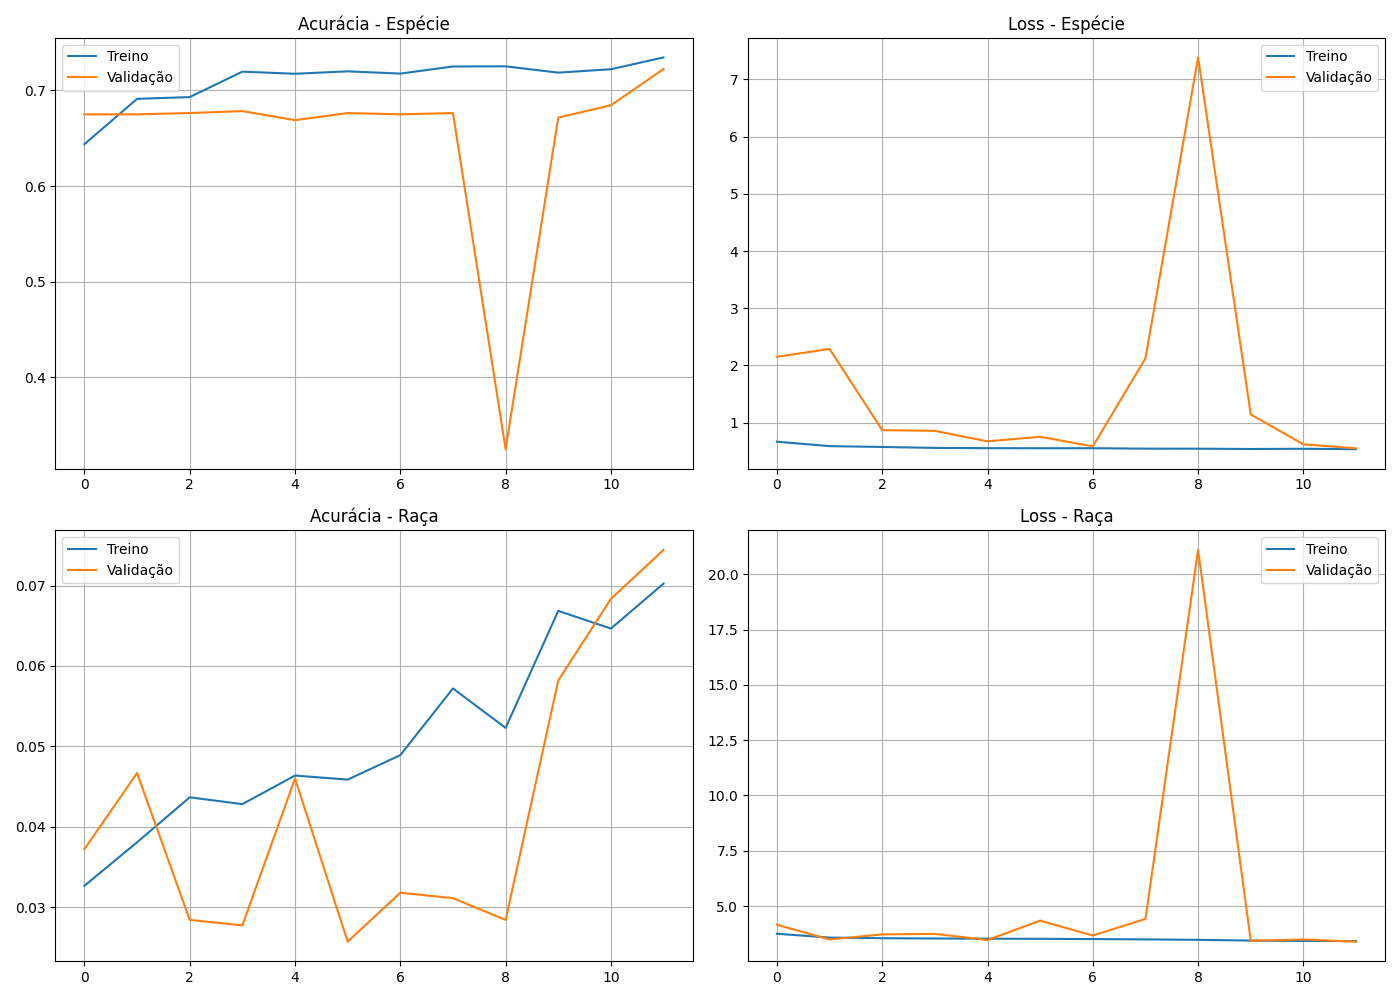
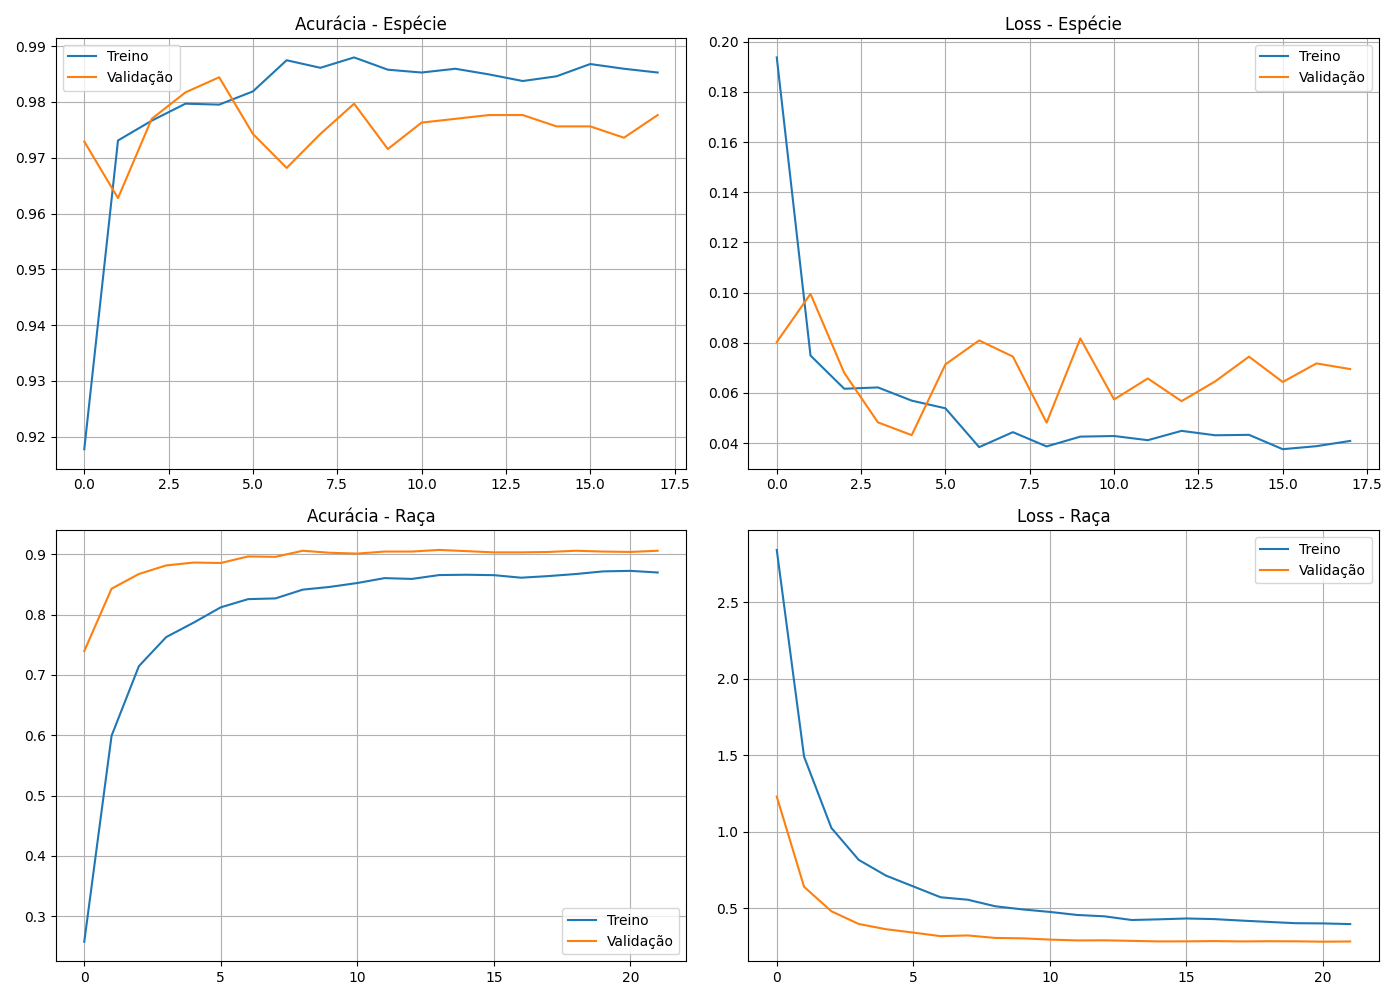
correção
deu certoooo

diff --git a/classificadorAnimais.py b/classificadorAnimais.py
@@ -20,6 +20,7 @@ Dois modelos separados: um para espécie, outro para raça
 
 import tensorflow as tf
 from tensorflow.keras.applications import ResNet50
+from tensorflow.keras.applications.resnet50 import preprocess_input
 from tensorflow.keras.models import Model, load_model
 from tensorflow.keras.layers import Dense, GlobalAveragePooling2D, Dropout, BatchNormalization
 from tensorflow.keras.preprocessing.image import ImageDataGenerator, load_img, img_to_array
@@ -41,8 +42,12 @@ TEST_PATH = os.path.join(DATASET_PATH, "test")
 
 IMG_SIZE = 224
 BATCH_SIZE = 16
-NUM_EPOCHS = 12
-LEARNING_RATE = 0.001
+INITIAL_EPOCHS = 10
+FINE_TUNE_EPOCHS = 15
+NUM_EPOCHS = INITIAL_EPOCHS + FINE_TUNE_EPOCHS
+LEARNING_RATE = 1e-4
+FINE_TUNE_LEARNING_RATE = 1e-5
+FINE_TUNE_AT = 100
 
 MODEL_ESPECIE_PATH = "modelo_especie.h5"
 MODEL_RACA_PATH = "modelo_raca.h5"
@@ -57,10 +62,8 @@ def criar_modelo(num_classes, nome_modelo):
     print(f"\nCriando modelo para {nome_modelo} com {num_classes} classes...")
     
     base_model = ResNet50(weights='imagenet', include_top=False, input_shape=(IMG_SIZE, IMG_SIZE, 3))
-    # Descongelar as últimas camadas da base para fine-tuning
-    base_model.trainable = True
-    for layer in base_model.layers[:-30]:  # Congelar tudo, exceto as últimas 30 camadas
-        layer.trainable = False
+    # Congelar a base inicialmente e treinar apenas a cabeça
+    base_model.trainable = False
     
     x = GlobalAveragePooling2D()(base_model.output)
     x = Dense(512, activation='relu')(x)
@@ -92,7 +95,7 @@ def preparar_dados_especie(train_path):
     print("="*60)
     
     train_datagen = ImageDataGenerator(
-        rescale=1./255,
+        preprocessing_function=preprocess_input,
         rotation_range=20,
         width_shift_range=0.2,
         height_shift_range=0.2,
@@ -205,7 +208,7 @@ def preparar_dados_raca(train_path):
     
     # Criar geradores COM data augmentation
     train_datagen = ImageDataGenerator(
-        rescale=1./255,
+        preprocessing_function=preprocess_input,
         rotation_range=20,
         width_shift_range=0.2,
         height_shift_range=0.2,
@@ -215,7 +218,7 @@ def preparar_dados_raca(train_path):
         fill_mode='nearest'
     )
     
-    val_datagen = ImageDataGenerator(rescale=1./255)
+    val_datagen = ImageDataGenerator(preprocessing_function=preprocess_input)
     
     train_generator = train_datagen.flow_from_directory(
         train_temp,
@@ -246,7 +249,7 @@ def preparar_dados_raca(train_path):
 # ============================================
 
 def treinar_modelo(model, train_gen, val_gen, nome):
-    """Treina um modelo"""
+    """Treina um modelo em duas fases: cabeça + fine-tuning."""
     
     print(f"\n{'='*60}")
     print(f"TREINANDO MODELO: {nome}")
@@ -254,18 +257,47 @@ def treinar_modelo(model, train_gen, val_gen, nome):
     
     callbacks = [
         EarlyStopping(monitor='val_accuracy', patience=8, restore_best_weights=True, verbose=1),
-        ReduceLROnPlateau(monitor='val_loss', factor=0.2, patience=4, min_lr=0.00001, verbose=1)
+        ReduceLROnPlateau(monitor='val_loss', factor=0.2, patience=4, min_lr=1e-6, verbose=1)
     ]
     
-    history = model.fit(
+    print(f"\nFase 1: treinando apenas a cabeça por {INITIAL_EPOCHS} épocas...")
+    history_head = model.fit(
         train_gen,
         validation_data=val_gen,
-        epochs=NUM_EPOCHS,
+        epochs=INITIAL_EPOCHS,
         callbacks=callbacks,
         verbose=1
     )
     
-    return history
+    # Fine-tuning: descongelar as últimas camadas da base e treinar com learning rate menor
+    print(f"\nFase 2: fine-tuning das últimas {FINE_TUNE_AT} camadas por {FINE_TUNE_EPOCHS} épocas...")
+    model.trainable = True
+    for layer in model.layers[:-FINE_TUNE_AT]:
+        layer.trainable = False
+    
+    model.compile(
+        optimizer=Adam(learning_rate=FINE_TUNE_LEARNING_RATE),
+        loss='categorical_crossentropy',
+        metrics=['accuracy']
+    )
+    
+    history_finetune = model.fit(
+        train_gen,
+        validation_data=val_gen,
+        epochs=NUM_EPOCHS,
+        initial_epoch=INITIAL_EPOCHS,
+        callbacks=callbacks,
+        verbose=1
+    )
+    
+    # Unir histórico das duas fases
+    class CombinedHistory:
+        def __init__(self, h1, h2):
+            self.history = {}
+            for key in h1.history:
+                self.history[key] = h1.history[key] + h2.history[key]
+    
+    return CombinedHistory(history_head, history_finetune)
 
 # ============================================
 # FUNÇÃO 5: SALVAR MODELO
@@ -329,7 +361,7 @@ def classificar_todas_imagens_test():
         return
     
     # Carregar modelos uma vez
-    print("\n📂 Carregando modelos...")
+    print("\nCarregando modelos...")
     model_especie = load_model(MODEL_ESPECIE_PATH)
     model_raca = load_model(MODEL_RACA_PATH)
     
@@ -389,7 +421,7 @@ def classificar_todas_imagens_test():
         print("      dataset/test/imagem.jpg (será extraída a raça do nome)")
         return
     
-    print(f"\n📸 Encontradas {len(imagens)} imagem(ns) para classificar")
+    print(f"\n Encontradas {len(imagens)} imagem(ns) para classificar")
     print("="*60)
     
     # Classificar cada imagem
@@ -399,7 +431,7 @@ def classificar_todas_imagens_test():
     for img_info in imagens:
         contador += 1
         print(f"\n{'#'*50}")
-        print(f"📷 IMAGEM {contador}/{len(imagens)}: {img_info['nome']}")
+        print(f" IMAGEM {contador}/{len(imagens)}: {img_info['nome']}")
         print(f"   Caminho: {img_info['especie_verdadeira']}/{img_info['raca_verdadeira']}/{img_info['nome']}")
         print(f"{'#'*50}")
         
@@ -407,7 +439,7 @@ def classificar_todas_imagens_test():
         img = load_img(img_info['caminho'], target_size=(IMG_SIZE, IMG_SIZE))
         img_array = img_to_array(img)
         img_array = np.expand_dims(img_array, axis=0)
-        img_array = img_array / 255.0  # Normalizar para [0, 1]
+        img_array = preprocess_input(img_array)
         
         # Predizer espécie
         pred_especie = model_especie.predict(img_array, verbose=0)
@@ -425,10 +457,10 @@ def classificar_todas_imagens_test():
         print("\n" + "-"*40)
         print("RESULTADO DA CLASSIFICAÇÃO")
         print("-"*40)
-        print(f"\n🐾 ESPÉCIE PREVISTA: {especie_predita}")
-        print(f"   Confiança: {conf_especie*100:.2f}%")
-        print(f"\n🐾 RAÇA PREVISTA: {raca_predita}")
-        print(f"   Confiança: {conf_raca*100:.2f}%")
+        print(f"\nESPÉCIE PREVISTA: {especie_predita}")
+        print(f"  Probabilidade de acerto da espécie: {conf_especie*100:.2f}%")
+        print(f"\nRAÇA PREVISTA: {raca_predita}")
+        print(f"  Probabilidade de acerto da raça: {conf_raca*100:.2f}%")
         print("-"*40)
         
         # Salvar resultado
@@ -443,18 +475,18 @@ def classificar_todas_imagens_test():
     
     # Resumo final
     print("\n" + "="*60)
-    print("📊 RESUMO FINAL")
+    print("RESUMO FINAL")
     print("="*60)
     
     total = len(resultados)
-    print(f"\n📸 Total de imagens classificadas: {total}")
-    print(f"\n✅ Classificações concluídas com sucesso!")
+    print(f"\n Total de imagens classificadas: {total}")
+    print(f"\n Classificações concluídas com sucesso!")
     
     # Salvar relatório
     relatorio_path = "resultados_classificacao.json"
     with open(relatorio_path, 'w', encoding='utf-8') as f:
         json.dump(resultados, f, indent=4, ensure_ascii=False)
-    print(f"\n📁 Relatório detalhado salvo em: {relatorio_path}")
+    print(f"\n Relatório detalhado salvo em: {relatorio_path}")
     print("="*60)
 
 # ============================================